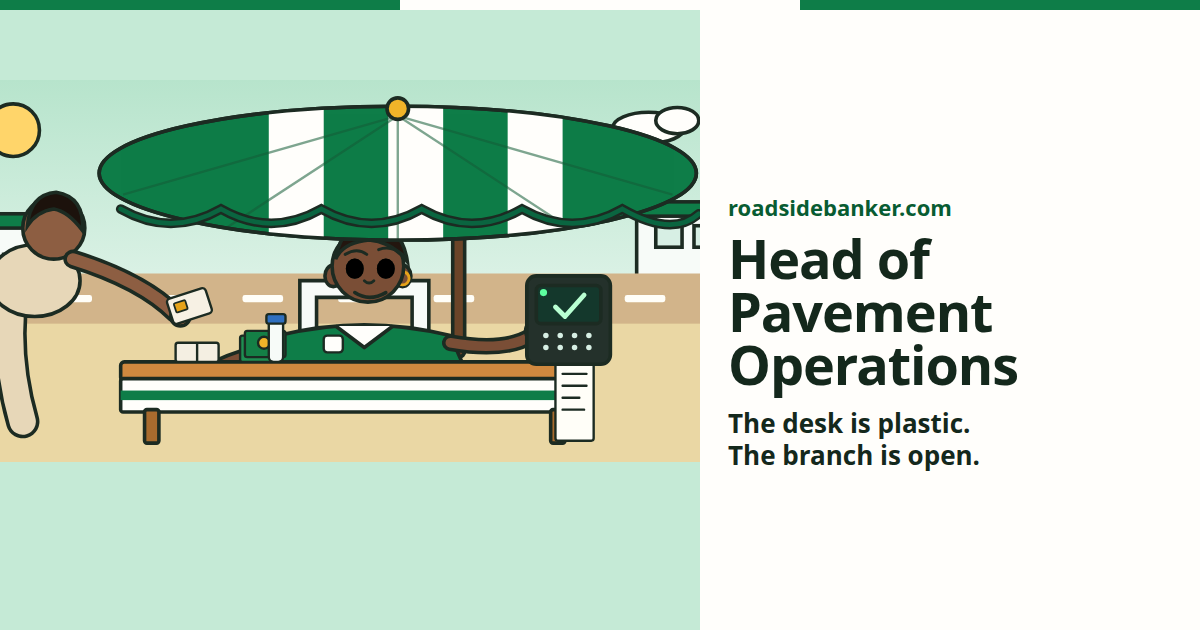
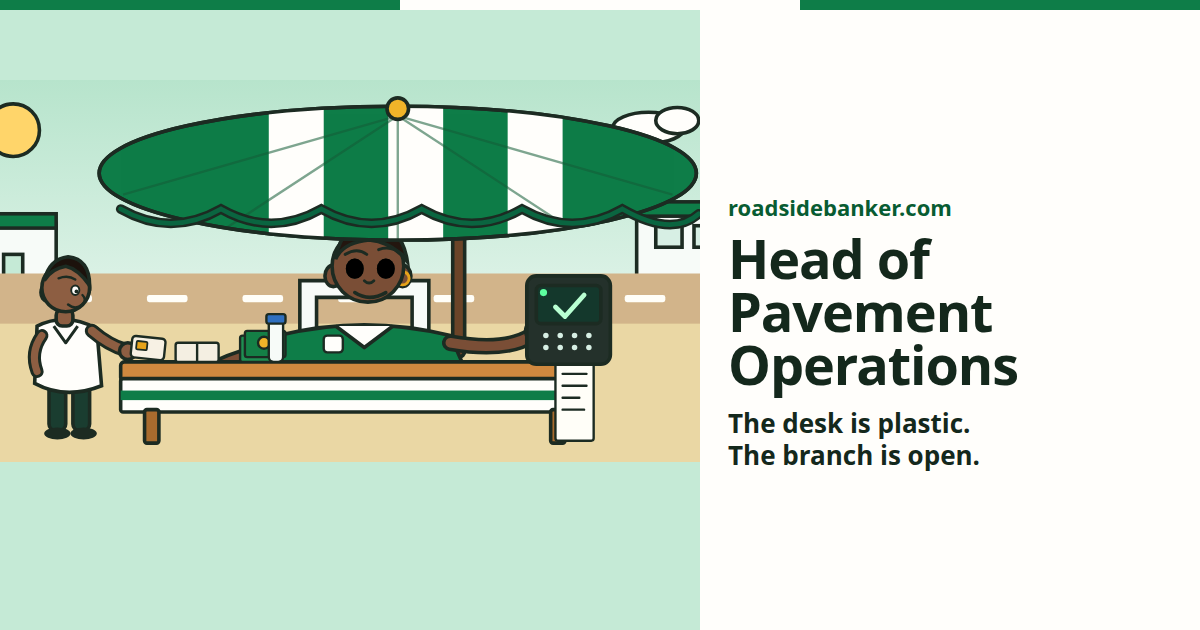
Redraw the customer and stop the header covering the page.
The figure on the left is a person handing over a card. The site name scrolls away, the banking hall line is named in full, and the signup note no longer says placeholder.

Changed region(s): [[0.0, 0.3016, 0.185, 0.6937]]

diff --git a/roadsidebanker/index.html b/roadsidebanker/index.html
@@ -189,18 +189,30 @@
             </g>
 
             <g>
-              <path d="M78 176 Q70 230 86 286" fill="none" stroke="#1c2b22" stroke-width="28" stroke-linecap="round"/>
-              <path d="M78 176 Q70 230 86 286" fill="none" stroke="#e7d7b8" stroke-width="22" stroke-linecap="round"/>
-              <ellipse cx="96" cy="168" rx="38" ry="30" fill="#e7d7b8" stroke="#1c2b22" stroke-width="3"/>
-              <circle cx="112" cy="124" r="26" fill="#8d5e42" stroke="#1c2b22" stroke-width="3"/>
-              <path d="M90 122 Q92 96 114 94 Q138 98 136 126 Q124 110 112 108 Q98 110 90 122Z" fill="#1c120c" stroke="#1c2b22" stroke-width="3"/>
-              <path d="M128 150 Q186 168 214 196" fill="none" stroke="#1c2b22" stroke-width="16" stroke-linecap="round"/>
-              <path d="M128 150 Q186 168 214 196" fill="none" stroke="#8d5e42" stroke-width="10" stroke-linecap="round"/>
-              <circle cx="218" cy="198" r="8" fill="#8d5e42" stroke="#1c2b22" stroke-width="3"/>
-              <g transform="translate(206,184) rotate(-18)">
-                <rect width="34" height="22" rx="3" fill="#f7f1e4" stroke="#1c2b22" stroke-width="2"/>
-                <rect x="5" y="5" width="10" height="8" rx="1" fill="#e6a31a" stroke="#1c2b22" stroke-width="1.5"/>
+              <rect x="108" y="248" width="14" height="46" rx="6" fill="#1a3d30" stroke="#1c2b22" stroke-width="3"/>
+              <rect x="128" y="248" width="14" height="46" rx="6" fill="#1a3d30" stroke="#1c2b22" stroke-width="3"/>
+              <ellipse cx="115" cy="296" rx="11" ry="5" fill="#1c2b22"/>
+              <ellipse cx="137" cy="296" rx="11" ry="5" fill="#1c2b22"/>
+              <path d="M98 206 Q122 194 148 208 L152 256 Q122 268 96 254 Z" fill="#fffefb" stroke="#1c2b22" stroke-width="3"/>
+              <path d="M112 206 L122 220 L132 206" fill="none" stroke="#1c2b22" stroke-width="2.5" stroke-linejoin="round"/>
+              <path d="M102 214 Q92 228 98 244" fill="none" stroke="#1c2b22" stroke-width="11" stroke-linecap="round"/>
+              <path d="M102 214 Q92 228 98 244" fill="none" stroke="#8d5e42" stroke-width="6" stroke-linecap="round"/>
+              <path d="M144 210 Q158 222 172 226" fill="none" stroke="#1c2b22" stroke-width="12" stroke-linecap="round"/>
+              <path d="M144 210 Q158 222 172 226" fill="none" stroke="#8d5e42" stroke-width="7" stroke-linecap="round"/>
+              <circle cx="174" cy="227" r="7" fill="#8d5e42" stroke="#1c2b22" stroke-width="3"/>
+              <g transform="translate(178,214) rotate(6)">
+                <rect width="28" height="18" rx="3" fill="#f7f1e4" stroke="#1c2b22" stroke-width="2"/>
+                <rect x="4" y="4" width="9" height="7" rx="1" fill="#e6a31a" stroke="#1c2b22" stroke-width="1.5"/>
               </g>
+              <rect x="114" y="192" width="14" height="14" rx="5" fill="#8d5e42" stroke="#1c2b22" stroke-width="3"/>
+              <ellipse cx="106" cy="178" rx="5" ry="7" fill="#8d5e42" stroke="#1c2b22" stroke-width="2.5"/>
+              <circle cx="122" cy="174" r="20" fill="#8d5e42" stroke="#1c2b22" stroke-width="3"/>
+              <path d="M104 168 Q108 150 124 148 Q142 150 142 172 Q132 158 122 156 Q110 158 104 168Z" fill="#1c120c" stroke="#1c2b22" stroke-width="3"/>
+              <path d="M116 166 Q124 163 130 167" fill="none" stroke="#1c2b22" stroke-width="2" stroke-linecap="round"/>
+              <ellipse cx="130" cy="176" rx="3.4" ry="4" fill="#fffefb" stroke="#1c2b22" stroke-width="1.6"/>
+              <circle cx="131" cy="177" r="1.6" fill="#1c2b22"/>
+              <path d="M136 180 Q140 184 136 188" fill="none" stroke="#1c2b22" stroke-width="2" stroke-linecap="round"/>
+              <path d="M124 188 Q130 193 136 188" fill="none" stroke="#1c2b22" stroke-width="2.2" stroke-linecap="round"/>
             </g>
           </svg>
         </div>
@@ -213,7 +225,7 @@
 
       <div class="sheet">
         <div class="def">
-          <p><strong>roadside banker</strong>, <em>noun</em>. A badge of honour POS agents claimed for themselves around 5 October 2026: a grand title for an informal job, the kind Nigerian youth culture loves. A person at a roadside table or kiosk with a card terminal, doing withdrawals, deposits, and transfers for a small fee. These micro-merchants rewrote everyday banking, brought financial inclusion to the pavement, and left the hall nearly obsolete for ordinary cash.</p>
+          <p><strong>roadside banker</strong>, <em>noun</em>. A badge of honour POS agents claimed for themselves around 5 October 2026: a grand title for an informal job, the kind Nigerian youth culture loves. A person at a roadside table or kiosk with a card terminal, doing withdrawals, deposits, and transfers for a small fee. These micro-merchants rewrote everyday banking, brought financial inclusion to the pavement, and left the banking hall nearly obsolete for ordinary cash.</p>
         </div>
 
         <form class="toy" id="titles" aria-describedby="toy-note">
@@ -270,7 +282,7 @@
         <button type="submit" class="btn">Hold my spot</button>
         <a class="btn ghost" id="mail-link" href="mailto:hello@roadsidebanker.com?subject=Find%20a%20roadside%20banker%20near%20me&amp;body=Please%20tell%20me%20when%20I%20can%20find%20a%20roadside%20banker%20near%20me.">Send a note</a>
       </div>
-      <p class="soon-status" id="soon-status" aria-live="polite">Placeholder. It stays in this browser.</p>
+      <p class="soon-status" id="soon-status" aria-live="polite">We'll only use this to tell you when it launches.</p>
     </form>
     <p class="sources">
       <span>Sources</span>

diff --git a/roadsidebanker/site.js b/roadsidebanker/site.js
@@ -198,14 +198,14 @@
       soonStatus.textContent = "Could not hold it on this phone. The note link still works.";
       return;
     }
-    soonStatus.textContent = "Held on this phone for " + email + ". Nothing was sent.";
+    soonStatus.textContent = "Held on this phone for " + email + ". We'll only use this to tell you when it launches.";
   });
 
   soonEmail.addEventListener("input", paintMail);
 
   try {
     if (localStorage.getItem("roadsidebanker-spot")) {
-      soonStatus.textContent = "A spot is already held on this phone. Nothing was sent.";
+      soonStatus.textContent = "A spot is already held on this phone. We'll only use this to tell you when it launches.";
     }
   } catch (err) {}
 

diff --git a/roadsidebanker/styles.css b/roadsidebanker/styles.css
@@ -89,9 +89,6 @@ a:hover {
 }
 
 .flag {
-  position: sticky;
-  top: 0;
-  z-index: 3;
   height: 6px;
   background: linear-gradient(90deg, #0e7d48 0 33.34%, #fffefb 33.34% 66.67%, #0e7d48 66.67%);
 }
@@ -108,9 +105,6 @@ main {
   display: flex;
   align-items: center;
   min-height: 44px;
-  position: sticky;
-  top: 6px;
-  z-index: 2;
   background: var(--header);
 }
 
